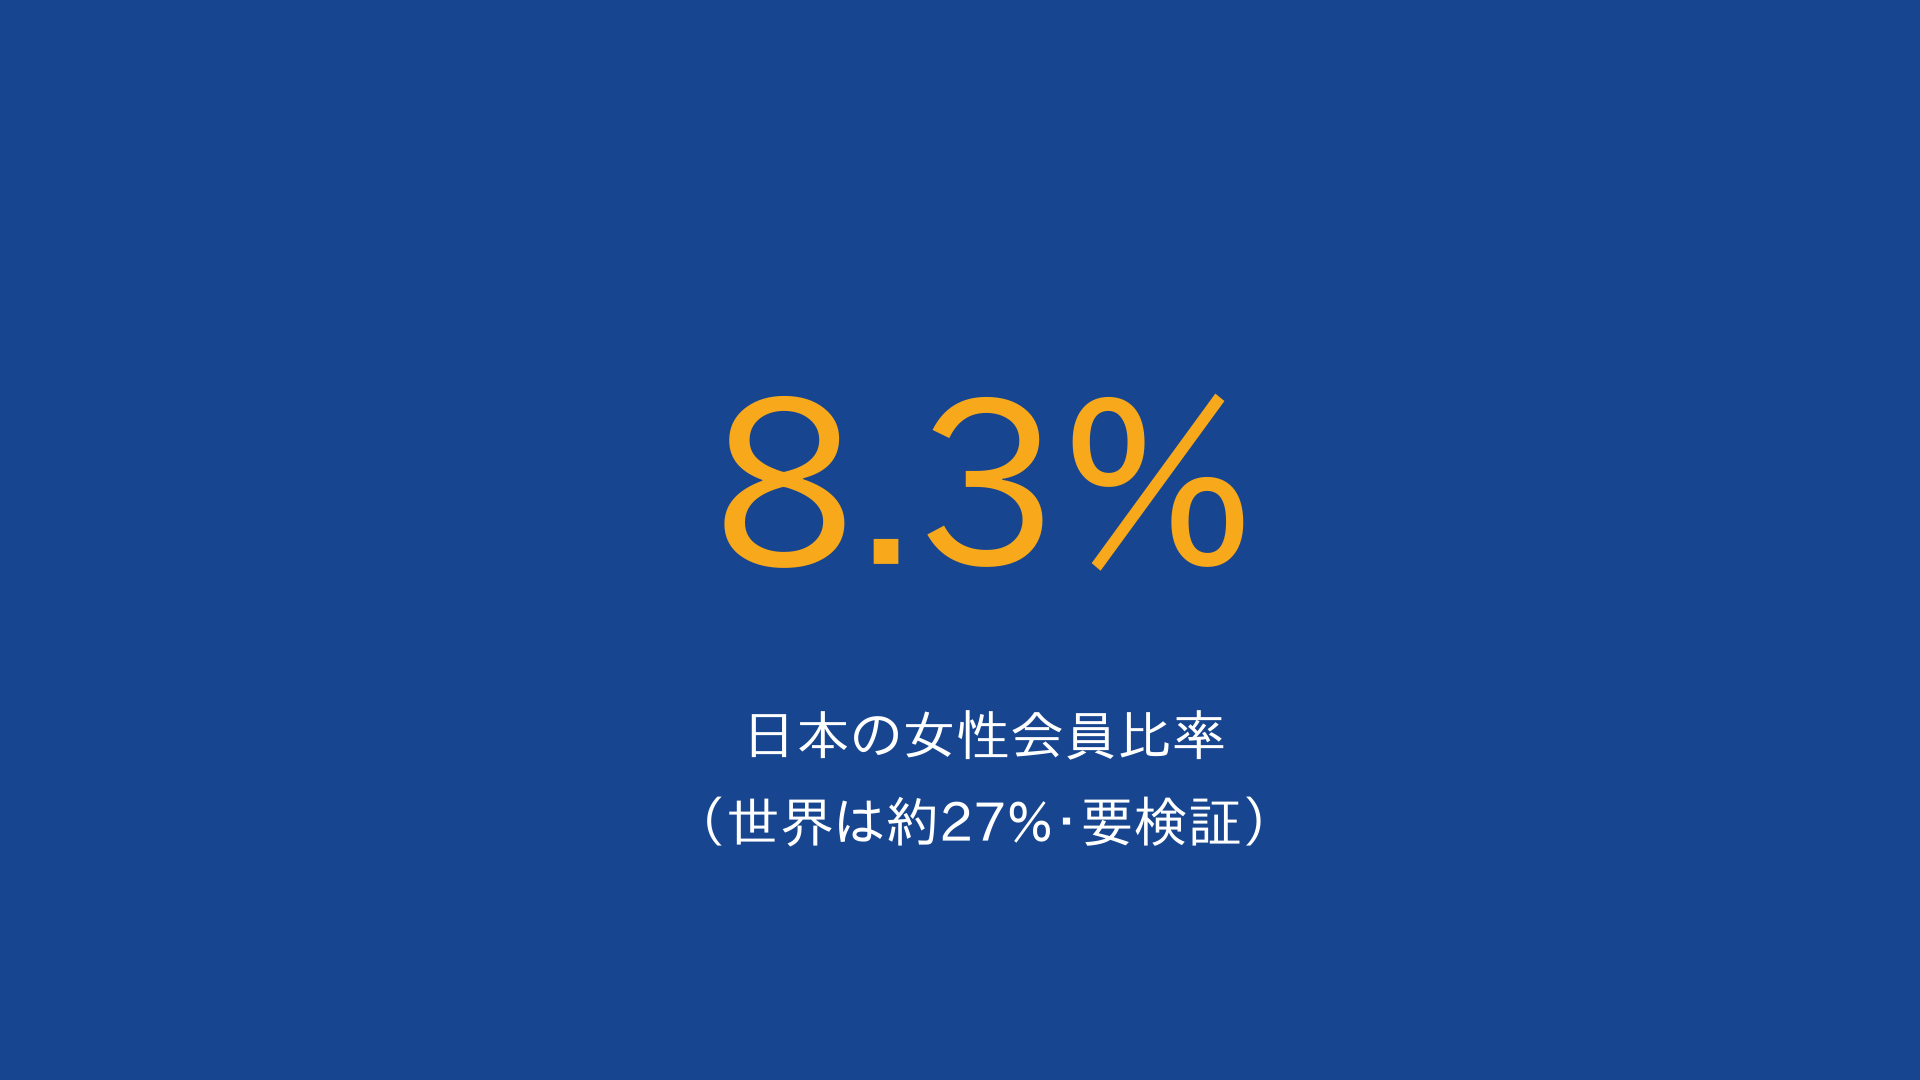
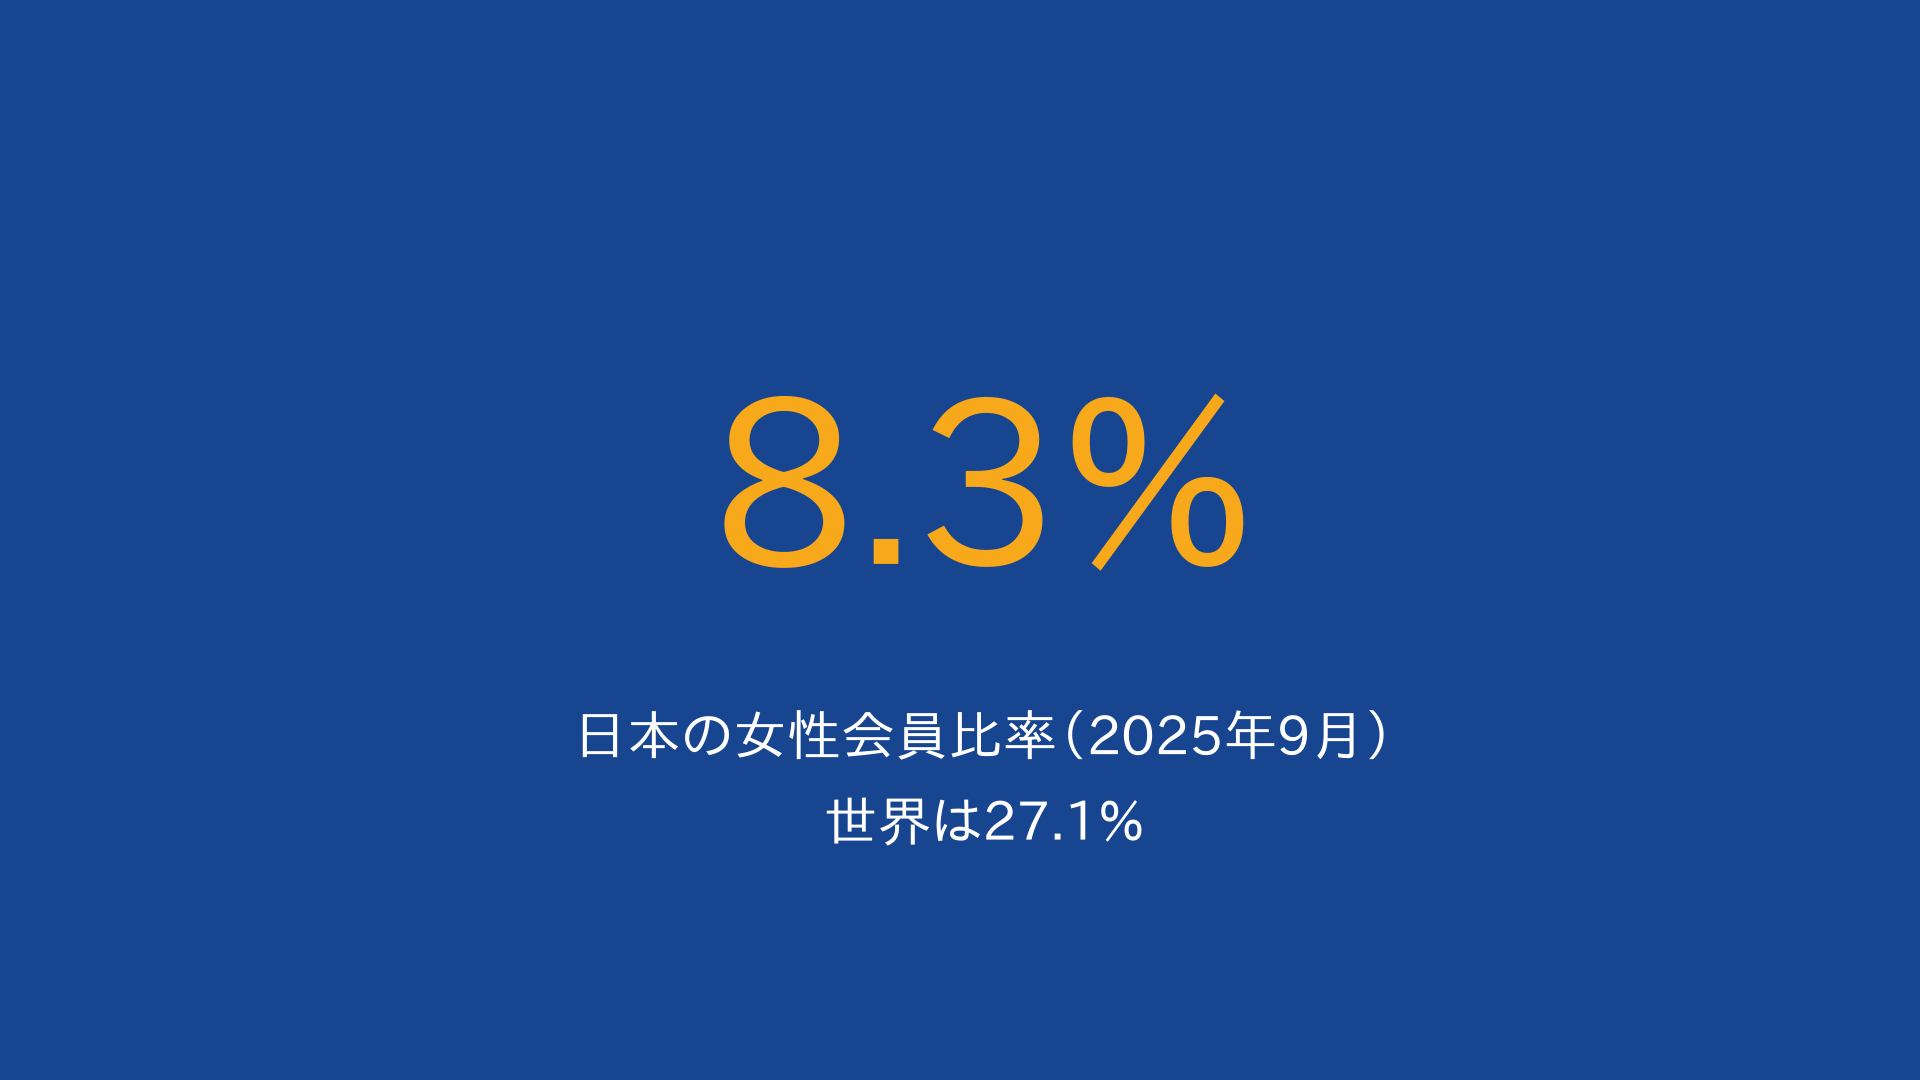
docs(rotary-video): apply Chat-verified figures to dataset and charts (instruction 1/2)
- 02_数値データ集: confirm four-way-test translator, women ratio (JP 8.3% / world 27.1%),
  polio WPV 2023-2026, Yoneyama figures; drop unverified peak 130k, circulation, 1960 polio numbers
- data.json: polio series 2023-2026 verified, Japan long series verified points only, add women_ratio
- make_charts.py: label text only (remove hardcoded 13万/要検証 wording)
- README: decisions and next steps

Claude-Session: https://claude.ai/code/session_016pwfvYZVRoTvcFcvXw8fDn

Changed region(s): [[0.2812, 0.6417, 0.7188, 0.7028], [0.375, 0.7333, 0.6562, 0.7944]]

diff --git a/rotary-video/scripts/make_charts.py b/rotary-video/scripts/make_charts.py
@@ -64,15 +64,15 @@ ax.text(0.99, 0.95, f"クラブ数 {s['clubs'][0]:,} → {s['clubs'][-1]:,}", tr
 footnote(ax, s["source_note"] + "　白抜き＝要検証")
 save(fig, "01a_japan_members_recent.png")
 
-# 1b. 日本の会員数（長期・要検証点を含む）
+# 1b. 日本の会員数（確認済みの点のみ。未確認のピーク値は不採用 2026-09-05）
 s = D["japan_members_long"]
 fig, ax = plt.subplots(figsize=(12.8, 7.2))
 plot_series(ax, s["years"], s["values"], s["status"], NAVY)
 ax.fill_between(s["years"], s["values"], color=NAVY, alpha=0.06)
-ax.annotate("約13万人（ピーク・要検証）", (s["years"][0], s["values"][0]), textcoords="offset points", xytext=(10, 8), fontsize=12, color=NAVY)
+ax.annotate(f"{s['values'][0]:,}人\n(2014年12月)", (s["years"][0], s["values"][0]), textcoords="offset points", xytext=(10, 8), fontsize=12, color=NAVY)
 ax.annotate(f"{s['values'][-1]:,}人\n(2026年5月)", (s["years"][-1], s["values"][-1]), textcoords="offset points", xytext=(-10, 12), ha="right", fontsize=12, color=NAVY)
 ax.set_ylim(0, 150000)
-ax.set_title("日本の会員数は30年で約4割減（要検証の概数を含む長期推移）")
+ax.set_title("日本のロータリー会員数（確認済みの点のみ・2014年→2026年）")
 ax.grid(axis="y", alpha=0.3)
 footnote(ax, s["source_note"] + "　白抜き＝要検証")
 save(fig, "01b_japan_members_long.png")
@@ -151,7 +151,7 @@ cards = [
     ("855", "番目\n東京RCの世界登録番号（1921年）"),
     ("48 → 7", "クラブ\n1940年脱退時 → 1949年復帰時"),
     ("99.9%", "減少\nポリオ症例（1988年比）"),
-    ("8.3%", "日本の女性会員比率\n（世界は約27%・要検証）"),
+    ("8.3%", "日本の女性会員比率（2025年9月）\n世界は27.1%"),
     ("$82 → $93", "RI人頭分担金（年額）\n2025-26 → 2028-29"),
     ("24,830", "人\n米山奨学生の累計（134か国・地域）"),
 ]

diff --git a/rotary-video/02_数値データ集.md b/rotary-video/02_数値データ集.md
@@ -1,8 +1,8 @@
 # 02 数値データ集（動画で使う「数字」の一覧）
 
-作成: 2026-09-02　　元帳: `01_調査ノート.md`　　図表: `charts/`（`scripts/data.json` から生成）
+作成: 2026-09-02　更新: 2026-09-05（Chat確認値を反映）　　元帳: `01_調査ノート.md`　　図表: `charts/`（`scripts/data.json` から生成）
 
-**確認状態**: ✅確認済（公式ドメインの検索結果）／ ⚠要検証（二次情報）／ ❓記憶（AIの知識で補完・必ず原本確認）
+**確認状態**: ✅確認済（原本またはChatが原本で確認）／ ⚠要検証（二次情報）／ ❓記憶（AIの知識で補完・必ず原本確認）／ ❌不採用（一次資料未確認のため動画では使わない）
 **原則**: ⚠❓のまま動画に断定表示しない。載せるなら「約」「〜とされる」を付けるか、確認してから。
 
 ---
@@ -37,7 +37,7 @@
 | 1943年 | RIが四つのテストを正式採用 | ✅ | 同上 |
 | 100万ドル超・200万ドル超 | 同社が後に払った配当／企業価値 | ✅ | 同上 |
 | 100言語超 | 四つのテストの翻訳言語数 | ✅ | rotary-no-tomo.jp/documents/4waytest.php |
-| 70数件 | 1954年、四つのテスト日本語訳の公募応募数。当選原案は本田親男（東京RC）、標題は手島知健が決定 | ✅ | tokainaka-rc.com/test（東京RC史では「本田英雄」表記。**氏名要確認**） |
+| 70数件 | 1954年、四つのテスト日本語訳の公募応募数。当選原案は本田親男（東京RC）。標題「四つのテスト」は当時のRI理事が決定（氏名は出典間で漢字が割れるため記さない） | ✅ | https://www.tokyo-rc.gr.jp/jhistory/jh016.html（2026-09-05確認） |
 | 13本→24歯・6本 | 1905年ベアの荷馬車車輪（13本スポーク）→ 1919〜1921年ビョルゲ案（24歯・6スポーク）。数に象徴的意味はない | ✅ | rghf.org/the-rotary-wheel-pin |
 | 1923〜24年 | キーウェイ（軸溝）追加。「動かない歯車」との技師の指摘から | ✅ | 同上（1923年説は⚠） |
 | 1929年 | 公式色ロイヤルブルー＆ゴールド、公式旗（ダラス大会） | ✅ | Rotary-Color-Palette.pdf（clubrunner） |
@@ -62,7 +62,7 @@
 | 1994／2000／2002／2014／2020 | 根絶認定：米州／西太平洋／欧州／東南アジア／アフリカ | ✅ | who.int |
 | 2015年／2019年 | 野生株2型／3型の根絶認定 | ✅ | pmc.ncbi.nlm.nih.gov |
 | 2か国 | 常在国：パキスタン・アフガニスタン | ✅ | 同上 |
-| 12→99→約52 | 野生株症例 2023→2024→2025年（2025は報道値） | ⚠ | cidrap／CDC MMWR／報道 |
+| 12→99→52→22 | 野生株症例 2023年12件／2024年99件（パキスタン74・アフガニスタン25）／2025年52件（アフガニスタン21・パキスタン31）／2026年22件（アフガニスタン19・パキスタン3、2026年8月16日週まで）。**備考: 2026年値は上映日までに動く。上映1週間前に再取得すること** | ✅ | WHO東地中海地域事務局 ポリオ速報（EMR Polio Bulletin）（2026-09-05確認） |
 | $29億超・122か国・30億人 | ロータリーの累計拠出／活動国／接種児童 | ✅ | rotary.org/en/our-causes/ending-polio |
 | $110億超 | ロータリーの働きかけで各国政府が拠出した額 | ✅ | 同上 |
 | 2:1・$5,000万・$1億5,000万 | ゲイツ財団のマッチング比率／ロータリー年間目標／年間合計 | ✅ | rotary.org/en/gates-foundation-extending-fundraising-partnership-eradicate-polio |
@@ -95,12 +95,12 @@
 | 1949年3月23日・7クラブ | 復帰（東京・京都・大阪・神戸・名古屋・静岡・札幌）→第60地区。復帰条件は3つ | ✅ | 同上 |
 | 1949年3月29日 | 東京RCが旧番号855で再登録 | ✅ | 同上 |
 | 1952年／1954年／1967年 | 米山奨学：東京RCで開始／第1号ソムチャード氏（タイ・東大で養蚕学）／財団法人化（年59人） | ✅ | rotary-yoneyama.or.jp |
-| 964名／24,830名・134か国地域 | 米山：年間採用（2025年4月〜）／累計（2025年7月） | ✅ | 同上 |
+| 年間約950人／24,830名・134か国地域 | 米山：年間採用（公式サイト本文の表現。964名は特定年度〔2025年4月〜〕の採用数）／累計（2025年7月現在。2026年9月時点でも公式サイトの掲示値） | ✅ | https://www.rotary-yoneyama.or.jp/summary（2026-09-05確認） |
 | 月10万円／14万円 | 米山奨学金（学部／修士・博士） | ✅ | 同上 |
-| 約15億8,900万円 | 米山 2024年度事業費（奨学金 約12億8,300万円） | ✅ | 同上 |
+| 約15億8,948万円 | 米山 2024-25年度決算の事業費（奨学金 約12億8,288万円） | ✅ | https://www.rotary-yoneyama.or.jp/summary（2026-09-05確認） |
 | 約1億3,200万円 | 米山学友（元奨学生）からの累計寄付 | ✅ | 同上 |
 | 1953年1月・3,300部・50円 | ロータリーの友 創刊・部数・定価 | ✅ | rotary-no-tomo.jp |
-| 84,200部・1980年7月 | 現在の発行部数（時点要確認）・RI公式地域雑誌認定 | ✅ | 同上 |
+| 1980年7月 | RI公式地域雑誌に認定。（現在の発行部数は時点が確認できないため数字を削除。動画では「1953年1月創刊・3,300部・定価50円」のみ使う） | ✅ | 同上 |
 | 23,366人・74か国 | 1961年東京大会（アジア初、当時最多）。天皇陛下が開会の辞 | ✅ | rotary.org/ja／mofa.go.jp |
 | 39,834人 | 1978年東京大会。3-H補助金の創設発表 | ✅ | rotary.org/ja/history-rotary-international-conventions |
 | 45,381人・111か国 | 2004年大阪大会（有料参加者の史上最多。別記録45,560人） | ✅ | 同上／ri2660osaka100.info |
@@ -113,20 +113,23 @@
 | 34地区 | 日本の地区数（2500〜2840） | ✅ | rid2590.jp/about |
 | 88,328（2014.12）→83,297（2026.5） | 日本の会員数 | ✅ | ri2770.com／mofa.go.jp PDF |
 | 2,287→2,174 | 同・クラブ数 | ✅ | 同上 |
-| 約13万人（1996年ごろ） | 日本のピーク | ❓ | **未確認。RI日本事務局の統計で確認** |
 | −21% | 2003→2013年の日本の会員減少率（インド+38%） | ⚠ | rotarynewsonline |
-| 8.3%（2025.9）／12.94%（2024.3） | 日本の女性会員比率（記事で大きく揺れ。**要確認**） | ⚠ | rotaryblogja／renaissance-media |
+| 8.3%（2025年9月現在） | 日本の女性会員比率。備考: 12.94%は第2750地区**単独**の値（2024年3月末）で日本全体ではない。同時点の日本全体は7.83%（2024年3月末） | ✅ | https://rotaryblogja.org/2025/10/20/ ／ https://rid2750.org/clubs/（2026-09-05確認） |
 | $342万超 | 日本のロータリーのポリオ関連支援（2018年度） | ✅ | rotary.org/ja/our-causes/ending-polio |
-| 5,606人 | 1960年の日本のポリオ患者数 | ⚠ | nli-research |
-| 1,300万人分 | 1961年ソ連から緊急輸入した生ワクチン | ⚠ | note.com（**一次資料で確認**） |
+| 5,606人 | 1960年の日本のポリオ患者数。**一次資料未確認のため動画では数字を出さない**（次回卓話の種として残す） | ❌不採用 | nli-research |
+| 1,300万人分 | 1961年ソ連から緊急輸入した生ワクチン。**一次資料未確認のため動画では数字を出さない**（次回卓話の種として残す） | ❌不採用 | note.com |
 | 1980年 | 日本国内最後の野生株ポリオ患者 | ✅ | id-info.jihs.go.jp |
+
+> 注記: 日本のピーク会員数（約13万人）はクラブ・地区資料に散見されるが一次情報に到達できず、動画では使用しない（2026-09-05判断）。
 
 ## E. いまの世界（2025〜26年）
 
 | 数字 | 意味 | 状態 | 出典 |
 |---|---|---|---|
-| 120万人・45,000クラブ超 | 世界の会員・クラブ数（2026年） | ✅ | rotary.org/en/rotarys-timeline |
-| 約16%→約23%→約27% | 世界の女性比率 2010→2020→2025 | ✅／⚠ | rotary.org/en/history-women-rotary |
+| 120万人・45,000クラブ超 | 世界の会員・クラブ数（2026年）。**注記: 45,000クラブはロータリークラブとローターアクトクラブの合計。ロータリークラブ単独は約35,000。動画では①クラブ数を出さない、または②合計である旨を画面注記する** | ✅ | rotary.org/en/rotarys-timeline |
+| 約16%→約23%→27.1% | 世界の女性比率 2010年7月→2020年7月→2025年（27.1%は2025年9月時点の記事） | ✅ | rotary.org/en/history-women-rotary ／ https://rotaryblogja.org/2025/10/20/（2026-09-05確認） |
+| 125万人／2030年 | 会員増強目標。2026-27年度会長エレクト ラリー・A・ランスフォード氏の発案でRI理事会が2023年10月に採択。ロータリー創立125周年の2030年までに会員125万人 | ✅ | https://www.rotary.org/ja-jp/who-we-are/our-leaders/directors（2026-09-05確認） |
+| 2名 | 2026-28年度RI理事のうち日本出身が2名（中谷研一／足利東RC・栃木、四宮孝郎／大阪西南RC・大阪）。同一年度に日本から2名は異例 | ✅ | 同上 |
 | 8言語 | RI公用語（英仏独伊日韓葡西） | ⚠ | clubrunner |
 | 800人超・7事務所 | RI職員数・国際事務所（東京含む） | ✅ | rotary.org/en/about-rotary/our-leaders |
 | $82→$85.50→$89.25→$93 | 人頭分担金（年額）2025-26→2028-29 | ✅ | rotary.org/en/2025-council-approves-dues-increase… |

diff --git a/rotary-video/README.md b/rotary-video/README.md
@@ -7,7 +7,8 @@
 - **案件**: 所属ロータリークラブの卓話で上映する「ロータリーの変遷」動画の、調査と素材づくり。
 - **狙い**: 在籍数十年の会員にも「へえ」と言わせる。歴史の年表だけでなく**数値**と**深掘りネタ**、そして**直近（2023〜2026年）の世界・日本の方針**を入れる。虚偽は絶対に入れない。
 - **今回の到達点（2026-09-02）**: 調査ノート645項目（出典付き）・数値データ集・動画構成案（12章・約15分）・ナレーション台本（約4,300字）・クイズと俗説チェック・直近方針まとめ・図表6点＋数字カード10枚を作成。
-- **次の一手**: ①`02_数値データ集.md` の ⚠❓ を原本URLで確認（特に: 日本のピーク会員数、女性比率、四つのテスト訳者の氏名、ポリオ最新値、2026-28年度日本人RI理事） → ②台本を音読して尺を調整 → ③写真素材の許諾確認 → ④編集ソフトで組み立て。
+- **次の一手**: ①台本の改訂（Chatからの次の指示待ち） → ②写真素材の許諾確認 → ③編集ソフトで組み立て。
+- **2026-09-05 更新**: Chatが原本で確認した数値を `02_数値データ集.md`・`scripts/data.json` に反映し、図表を再生成（指示1/2）。
 - **未完了**: GitHubへの push は組織にClaude GitHub Appが未インストールのため失敗（ローカルにコミット済み）。成果物はzipで直接受け渡し。
 
 ## ファイルの地図
@@ -37,6 +38,9 @@
 - [DECISION] 素材はこのリポジトリの `rotary-video/` 配下にまとめる（既存の送迎ルート案件とは独立）。
 - [DECISION] 動画の骨格は「**数字で読むロータリー**」。各章を1つの数字で始め、既知の話も「数字の意外性」で新鮮に見せる。
 - [DECISION] 数字には必ず出典と確認状態を付け、要検証のまま動画に載せない。
+- [DECISION] 日本のピーク会員数13万人は一次情報未確認のため不採用（2026-09-05）
+- [DECISION] 女性比率は日本8.3%（2025年9月）・世界27.1%で確定。12.94%は第2750地区単独の値だった（2026-09-05）
+- [DECISION] エンディングの着地点を「2030年・125万人」（RI理事会が2023年10月採択の会員増強目標）とする（2026-09-05）
 
 ## 教訓
 - ★ 公式サイトが読めない環境では、検索スニペットの数字は「年度」「時点」がずれやすい。時点（as of）を必ず併記する。
